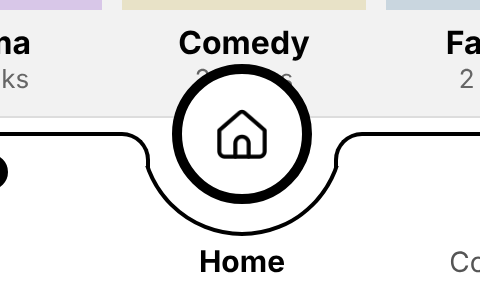
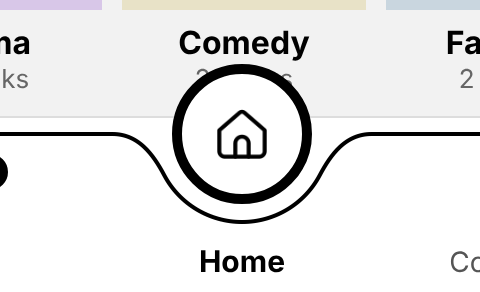
Seamless taskbar dip (one drawn curve), collection pictures, picture sizes, relink a book's details to another file
Claude-Session: https://claude.ai/code/session_01X56ddDHNWUKJn2BBuoFg9X

Changed region(s): [[0.25, 0.4315, 0.75, 0.8322]]

diff --git a/App.tsx b/App.tsx
@@ -24,9 +24,10 @@ const px = (n: number) => Math.round(n * S);
 const BLACK = '#000000';
 const LIST_PER_PAGE = 6;
 const TASK_H = px(80);
-const DIP_F = px(14); // how round the bar's shoulders are where it dips under the open tab
-const DIP_R = px(51);
-const DIP_DX = DIP_R - Math.sqrt(DIP_R * DIP_R - (DIP_F + 3) * (DIP_F + 3)); // where the dip's curve is at the shoulder's foot
+const DIP_IMG = require('./assets/taskbar-dip.png'); // drawn in tools/logo/taskbar-dip.svg
+// picture sizes (the Supernote screen is 300 pixels per inch: 600 px is about 51 mm)
+const SIZE_COVER = '2:3 tall, e.g. 600 × 900 px (about 51 × 76 mm on the screen)';
+const SIZE_COLL = '4:3 wide, e.g. 800 × 600 px (about 68 × 51 mm on the screen)';
 const GRID_PER_PAGE = 12;
 const READ = 'plugin.permission.FILE:READ';
 const WRITE = 'plugin.permission.FILE:WRITE';
@@ -1043,8 +1044,45 @@ function InkShelfApp(): React.JSX.Element {
     return out;
   }, [shelf, meta]);
 
+  /** move a book's details to the file the reader picks (when they were joined to the wrong one) */
+  async function relinkBook(b: Book) {
+    if (!lib) return;
+    let picked = '';
+    try {
+      const r: any = await FileSelector.selectFile({selectType: 1, suffixList: ['epub', 'pdf', 'cbz', 'fb2', 'xps', 'mobi', 'txt', 'docx'], maxNum: 1, title: 'Choose the right file', needSelectFolder: lib.path, rightButtonText: 'OK'});
+      const list: any[] = Array.isArray(r) ? r : r?.result || [];
+      picked = list.length ? String(list[0]).replace(/^file:\/\//, '') : '';
+    } catch (e) {
+      log('relink picker failed', String(e));
+    }
+    if (!picked) return;
+    const target = books.find(x => x.files.includes(picked));
+    if (!target) {
+      const other = libs.find(l => l.path !== lib.path && picked.startsWith(l.path + '/'));
+      setMessage(other ? `That file is in your "${other.name}" library. Open that library and pick it from there.` : "That file isn't in this library. Add its folder in Data and storage first, then try again.");
+      return;
+    }
+    if (target.key === b.key) return say('That is already the file for this book.');
+    const cur = metaRef.current;
+    const old = cur.books[b.key] || {};
+    const {seen, ...details} = old;
+    const next: MetaStore = {...cur, books: {...cur.books, [target.key]: {...(cur.books[target.key] || {}), ...details}}, missing: {...(cur.missing || {})}};
+    delete next.books[b.key];
+    delete next.missing![b.key];
+    metaRef.current = next;
+    setMeta(next);
+    setLibData(d => ({...d, [lib.path]: {books, meta: next}}));
+    await saveMeta(lib.path, next);
+    const fix = (l: Snap[]) => l.map(x => (x.lib === lib.path && x.key === b.key ? {...x, key: target.key} : x));
+    changeApp(a => ({...a, recent: fix(a.recent), bookmarks: fix(a.bookmarks)}));
+    const oldId = `${lib.path}|${b.key}`, newId = `${lib.path}|${target.key}`;
+    changeCollections(list => list.map(c => ({...c, add: c.add.map(x => (x === oldId ? newId : x)), remove: c.remove.map(x => (x === oldId ? newId : x))})));
+    log('relinked by hand', b.key, '->', target.key);
+    say(`Details moved to "${(picked.split('/').pop() || '').replace(/\.[^.]+$/, '')}"`);
+    setScreen({kind: 'book', key: target.key, from: screen.kind === 'edit' || screen.kind === 'book' ? screen.from : undefined});
+  }
+
   async function pickCover(): Promise<string | null> {
-    if (!lib) return null;
     try {
       const dir = await screenshotDir();
       log('cover picker in', dir);
@@ -1211,6 +1249,7 @@ function InkShelfApp(): React.JSX.Element {
           cover={coverUri(b)}
           onPickCover={pickCover}
           onSplit={b.series ? () => splitBook(b) : undefined}
+          onRelink={() => relinkBook(b)}
           onCancel={backFromEdit}
           onSave={async m => {
             await updateMeta(b.key, m);
@@ -1469,7 +1508,7 @@ function InkShelfApp(): React.JSX.Element {
         <>
           <Header title="Collections" right={<IconBtn bare name="plus" label="New collection" onPress={() => setScreen({kind: 'coledit', id: null})} iconSize={px(28)} style={{marginRight: px(4)}} />} />
           <CollectionGrid
-            items={all.map(c => ({id: c.id, name: c.name, count: c.items.length, covers: c.items.slice(0, 4).map(i => ({cover: i.cover, title: i.title})), auto: !!collections.find(x => x.id === c.id)?.rules.length}))}
+            items={all.map(c => ({id: c.id, name: c.name, count: c.items.length, covers: c.items.slice(0, 4).map(i => ({cover: i.cover, title: i.title})), auto: !!collections.find(x => x.id === c.id)?.rules.length, pic: collections.find(x => x.id === c.id)?.cover}))}
             onOpen={id => { setColSel(id); setColEdit(false); }}
             onNew={() => setScreen({kind: 'coledit', id: null})}
           />
@@ -1575,6 +1614,7 @@ function InkShelfApp(): React.JSX.Element {
           values={values}
           count={c => index.filter(f => inCollection(c, factsOf(f))).length}
           onCancel={() => setScreen({kind: 'bookmarks'})}
+          onPickPicture={pickCover}
           onSave={c => {
             changeCollections(list => (list.some(x => x.id === c.id) ? list.map(x => (x.id === c.id ? c : x)) : [...list, c]));
             setColSel(c.id);
@@ -2731,16 +2771,8 @@ function Taskbar({tab, onTab, newCount}: {tab: Tab; onTab: (t: Tab) => void; new
             {on ? (
               <>
                 {/* the open tab sits in a dip cut into the bar, like a call-to-action button */}
-                <View style={st.dipWrap}>
-                  <View style={st.notchClip}>
-                    <View style={st.notch} />
-                  </View>
-                  {/* soft shoulders where the bar bends into the dip */}
-                  <View style={[st.dipCover, {left: 0}]} />
-                  <View style={[st.dipCover, {right: 0}]} />
-                  <View style={[st.dipFillet, {left: 0, borderRightWidth: 2, borderTopRightRadius: DIP_F}]} />
-                  <View style={[st.dipFillet, {right: 0, borderLeftWidth: 2, borderTopLeftRadius: DIP_F}]} />
-                </View>
+                {/* one smooth curve: flat bar, soft shoulder, round dip around the button, soft shoulder */}
+                <Image source={DIP_IMG} style={st.dip} resizeMode="stretch" />
                 <View style={st.taskCta}>
                   <Icon name={icon} size={px(32)} />
                   {badge}
@@ -3144,7 +3176,8 @@ function CategorySheet({tree, total, current, onPick, onClose, title = 'Category
 }
 
 // ---------- collection editor ----------
-function CollectionEditor({start, values, count, onSave, onCancel, onDelete}: {
+function CollectionEditor({start, values, count, onSave, onCancel, onDelete, onPickPicture}: {
+  onPickPicture: () => Promise<string | null>;
   start: Coll | null;
   values: (f: RuleField) => string[];
   count: (c: Coll) => number;
@@ -3197,8 +3230,19 @@ function CollectionEditor({start, values, count, onSave, onCancel, onDelete}: {
             </View>
           </>
         ) : null}
-        <Text style={st.label}>Name</Text>
-        <TextInput style={st.input} value={c.name} onChangeText={t => setC({...c, name: t})} placeholder="e.g. Cosy reads, To reread, Book club" />
+        <View style={{flexDirection: 'row', alignItems: 'flex-end'}}>
+          <View style={{flex: 1}}>
+            <Text style={st.label}>Name</Text>
+            <TextInput style={[st.input, {marginBottom: 0}]} value={c.name} onChangeText={t => setC({...c, name: t})} placeholder="e.g. Cosy reads, To reread, Book club" />
+          </View>
+          <Pressable onPress={async () => { const p = await onPickPicture(); if (p) setC({...c, cover: p}); }} style={[st.collPic, {marginLeft: px(12)}]} accessibilityLabel="Choose a picture">
+            {c.cover ? <Image source={{uri: c.cover.startsWith('/') ? 'file://' + c.cover : c.cover}} style={StyleSheet.absoluteFill} resizeMode="cover" /> : <Icon name="image" size={px(30)} />}
+          </Pressable>
+        </View>
+        <View style={{flexDirection: 'row', alignItems: 'center', marginTop: px(6)}}>
+          <Text style={[st.small, {flex: 1}]}>{`Picture (tap the box): ${SIZE_COLL}. Without one, the first book covers are shown.`}</Text>
+          {c.cover ? <Btn small icon="close" label="No picture" onPress={() => setC({...c, cover: undefined})} style={{marginLeft: px(8)}} /> : null}
+        </View>
         <View style={[st.dataHead, {marginTop: px(16)}]}>
           <Text style={st.dataTitle}>Add books by themselves when</Text>
         </View>
@@ -3356,7 +3400,7 @@ function HelpPage({q, setQ, onOpen}: {q: string; setQ: (q: string) => void; onOp
 
 // ---------- the grid of collections ----------
 function CollectionGrid({items, onOpen, onNew}: {
-  items: {id: string; name: string; count: number; covers: {cover: string | null; title: string}[]; auto: boolean}[];
+  items: {id: string; name: string; count: number; covers: {cover: string | null; title: string}[]; auto: boolean; pic?: string}[];
   onOpen: (id: string) => void;
   onNew: () => void;
 }) {
@@ -3386,9 +3430,13 @@ function CollectionGrid({items, onOpen, onNew}: {
                   </>
                 ) : (
                   <>
-                    <View style={{height: coverH, flexDirection: 'row', flexWrap: 'wrap', justifyContent: 'space-between', alignContent: 'space-between', backgroundColor: '#f2f2f2', borderRadius: px(10), padding: c.covers.length ? 0 : px(8)}}>
-                      {c.covers.length ? c.covers.map((x, k) => <Cover key={k} uri={x.cover} w={cw} h={ch} title={x.title} />) : <Text style={[st.small, {margin: px(8)}]}>Empty</Text>}
-                    </View>
+                    {c.pic ? (
+                      <Image source={{uri: c.pic.startsWith('/') ? 'file://' + c.pic : c.pic}} style={{height: coverH, borderRadius: px(10)}} resizeMode="cover" />
+                    ) : (
+                      <View style={{height: coverH, flexDirection: 'row', flexWrap: 'wrap', justifyContent: 'space-between', alignContent: 'space-between', backgroundColor: '#f2f2f2', borderRadius: px(10), padding: c.covers.length ? 0 : px(8)}}>
+                        {c.covers.length ? c.covers.map((x, k) => <Cover key={k} uri={x.cover} w={cw} h={ch} title={x.title} />) : <Text style={[st.small, {margin: px(8)}]}>Empty</Text>}
+                      </View>
+                    )}
                     <Text style={[st.rowTitle, {fontSize: px(18), marginTop: px(8)}]} numberOfLines={1}>{c.name}</Text>
                     <Text style={st.small} numberOfLines={1}>{`${c.count} book${c.count === 1 ? '' : 's'}${c.auto ? '  ·  auto' : ''}`}</Text>
                   </>
@@ -4348,7 +4396,8 @@ function PillEditor({label, values, setValues, used, placeholder}: {label: strin
   );
 }
 
-function EditPage({book, meta, allGenres, allTags, allCats, cover, onSave, onCancel, onPickCover, onSplit}: {
+function EditPage({book, meta, allGenres, allTags, allCats, cover, onSave, onCancel, onPickCover, onSplit, onRelink}: {
+  onRelink: () => void;
   book: Book;
   meta: Meta;
   allGenres: string[];
@@ -4425,6 +4474,7 @@ function EditPage({book, meta, allGenres, allTags, allCats, cover, onSave, onCan
               if (p) setImg(p);
             }} />
             <Text style={[st.small, {marginTop: px(6)}]}>{'Opens your screenshots. Take a screenshot of any cover, then pick it here.'}</Text>
+            <Text style={[st.small, {marginTop: px(4), color: BLACK}]}>{`Best: ${SIZE_COVER}. Other sizes are cropped to fit.`}</Text>
             {img ? <Btn small label="Use the book's own cover" onPress={() => setImg(undefined)} style={{marginTop: px(8)}} /> : null}
           </View>
         </View>
@@ -4436,6 +4486,12 @@ function EditPage({book, meta, allGenres, allTags, allCats, cover, onSave, onCan
           onPress={() => onSave(result())}
           style={{marginTop: px(24)}}
         />
+        <Text style={st.label}>{book.missing ? 'File (missing)' : book.files.length > 1 ? 'Files' : 'File'}</Text>
+        <View style={[st.libCard, {flexDirection: 'column', alignItems: 'stretch', height: undefined}]}>
+          <Text style={[st.small, {color: BLACK}]} numberOfLines={2}>{book.missing ? `Was: ${book.key.replace(/#(vols|series)$/, '').replace(/^\//, '')}` : `${book.dir ? book.dir + ' › ' : ''}${(book.files[0] || '').split('/').pop()}${book.files.length > 1 ? `  (+${book.files.length - 1} more)` : ''}`}</Text>
+          <Btn small icon="unlink" label={book.missing ? 'Find its file' : 'Link these details to a different file'} onPress={onRelink} style={{marginTop: px(8)}} />
+          <Text style={[st.small, {marginTop: px(4)}]}>{"If InkShelf joined the details to the wrong file, pick the right one. The tags, notes and status move with them."}</Text>
+        </View>
         {onSplit ? (
           <View style={[st.missingNote, {marginTop: px(24)}]}>
             <Text style={[st.small, {color: BLACK, fontWeight: 'bold'}]}>{`One book made of ${book.files.length} files`}</Text>
@@ -4569,14 +4625,10 @@ const st = StyleSheet.create({
   editText: {fontSize: px(17), color: BLACK},
   infoLabel: {fontSize: px(18), fontWeight: 'bold', color: BLACK, marginTop: px(4)},
   infoValue: {fontSize: px(17), lineHeight: px(24), color: BLACK},
-  taskbar: {height: TASK_H, flexDirection: 'row', borderTopWidth: 2, borderColor: BLACK, backgroundColor: '#ffffff', overflow: 'visible'},
+  taskbar: {height: TASK_H, flexDirection: 'row', borderTopWidth: px(2), borderColor: BLACK, backgroundColor: '#ffffff', overflow: 'visible'},
   // a half circle cut down into the bar (only its lower half shows), with the button sitting in it
-  dipWrap: {position: 'absolute', top: -2, alignSelf: 'center', width: px(102) + DIP_F * 2, height: px(51) + 2},
-  dipCover: {position: 'absolute', top: 0, width: DIP_F + DIP_DX + 4, height: DIP_F + 3, backgroundColor: '#ffffff'},
-  dipFillet: {position: 'absolute', top: 0, width: DIP_F + 2 + DIP_DX, height: DIP_F + 4, borderTopWidth: 2, borderColor: BLACK, backgroundColor: 'transparent'},
-  notchClip: {position: 'absolute', top: 0, left: DIP_F, width: px(102), height: px(51) + 2, overflow: 'hidden'},
-  notch: {position: 'absolute', top: -px(51) + 1, left: 0, width: px(102), height: px(102), borderRadius: px(51), borderWidth: 2, borderColor: BLACK, backgroundColor: '#ffffff'},
-  taskCta: {position: 'absolute', top: -px(35) - 1, alignSelf: 'center', width: px(70), height: px(70), borderRadius: px(35), borderWidth: px(5), borderColor: BLACK, backgroundColor: '#ffffff', alignItems: 'center', justifyContent: 'center'},
+  dip: {position: 'absolute', top: -px(3), alignSelf: 'center', width: px(160), height: px(51)},
+  taskCta: {position: 'absolute', top: -px(36), alignSelf: 'center', width: px(70), height: px(70), borderRadius: px(35), borderWidth: px(5), borderColor: BLACK, backgroundColor: '#ffffff', alignItems: 'center', justifyContent: 'center'},
   taskLabel: {position: 'absolute', bottom: px(6), fontSize: px(14), color: '#555555'},
   taskLabelOn: {fontWeight: 'bold', fontSize: px(15), color: BLACK},
   task: {flex: 1, alignItems: 'center', justifyContent: 'flex-start'},
@@ -4586,6 +4638,7 @@ const st = StyleSheet.create({
   drop: {backgroundColor: '#ffffff', borderBottomWidth: 2, borderColor: BLACK, borderBottomLeftRadius: px(18), borderBottomRightRadius: px(18), padding: px(12)},
   ruleOpen: {borderWidth: 3},
   ruleDrop: {backgroundColor: '#ffffff', borderWidth: 2, borderColor: BLACK, borderRadius: px(16), padding: px(6), paddingBottom: px(10)},
+  collPic: {width: px(116), height: px(87), borderWidth: 2, borderStyle: 'dashed', borderColor: BLACK, borderRadius: px(12), alignItems: 'center', justifyContent: 'center', overflow: 'hidden'},
   editBar: {flexDirection: 'row', alignItems: 'center', height: px(58), paddingHorizontal: px(16), borderBottomWidth: 1, borderColor: '#888888', backgroundColor: '#f2f2f2'},
   colTile: {borderWidth: 2, borderColor: BLACK, borderRadius: px(16), padding: px(8), overflow: 'hidden'},
   toast: {position: 'absolute', left: px(24), right: px(24), bottom: TASK_H + px(34), backgroundColor: BLACK, borderRadius: px(14), paddingVertical: px(12), paddingHorizontal: px(18)},

diff --git a/src/library.ts b/src/library.ts
@@ -64,6 +64,7 @@ export type Collection = {
   match: 'all' | 'any';
   add: string[]; // "lib|key" added by hand
   remove: string[]; // "lib|key" taken out by hand (even if the rules match)
+  cover?: string; // its own picture (otherwise the first book covers)
 };
 export const RULE_FIELDS: {id: RuleField; label: string}[] = [
   {id: 'status', label: 'Reading status'},
